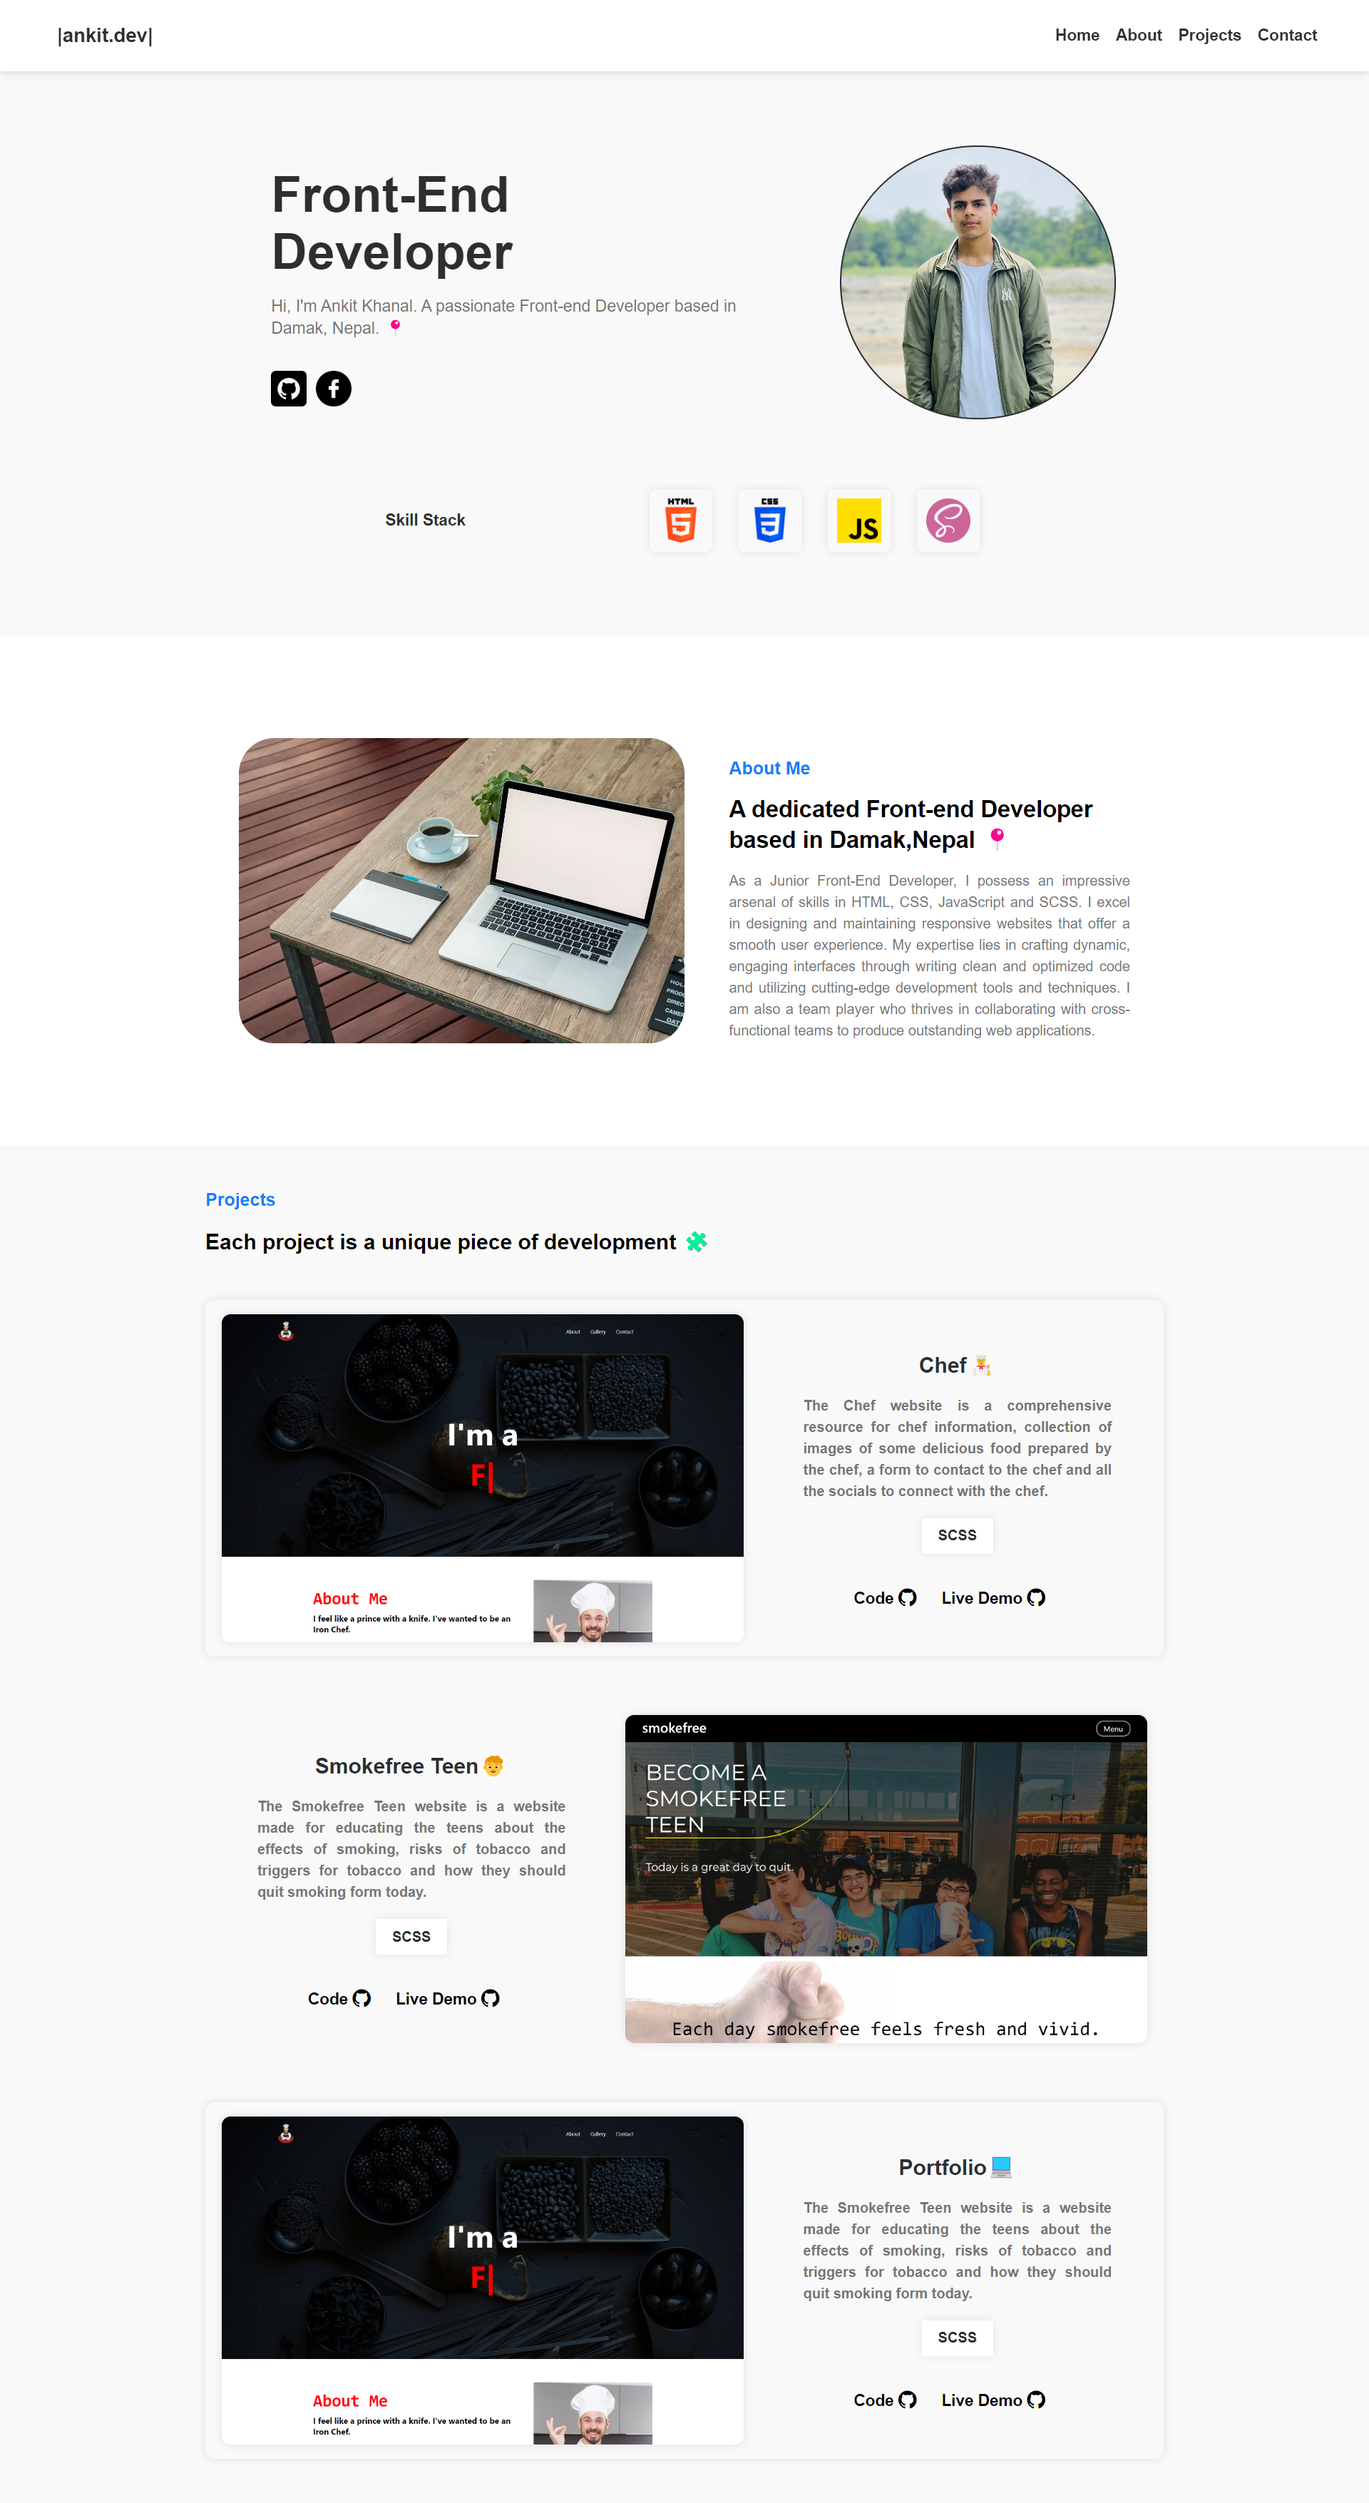
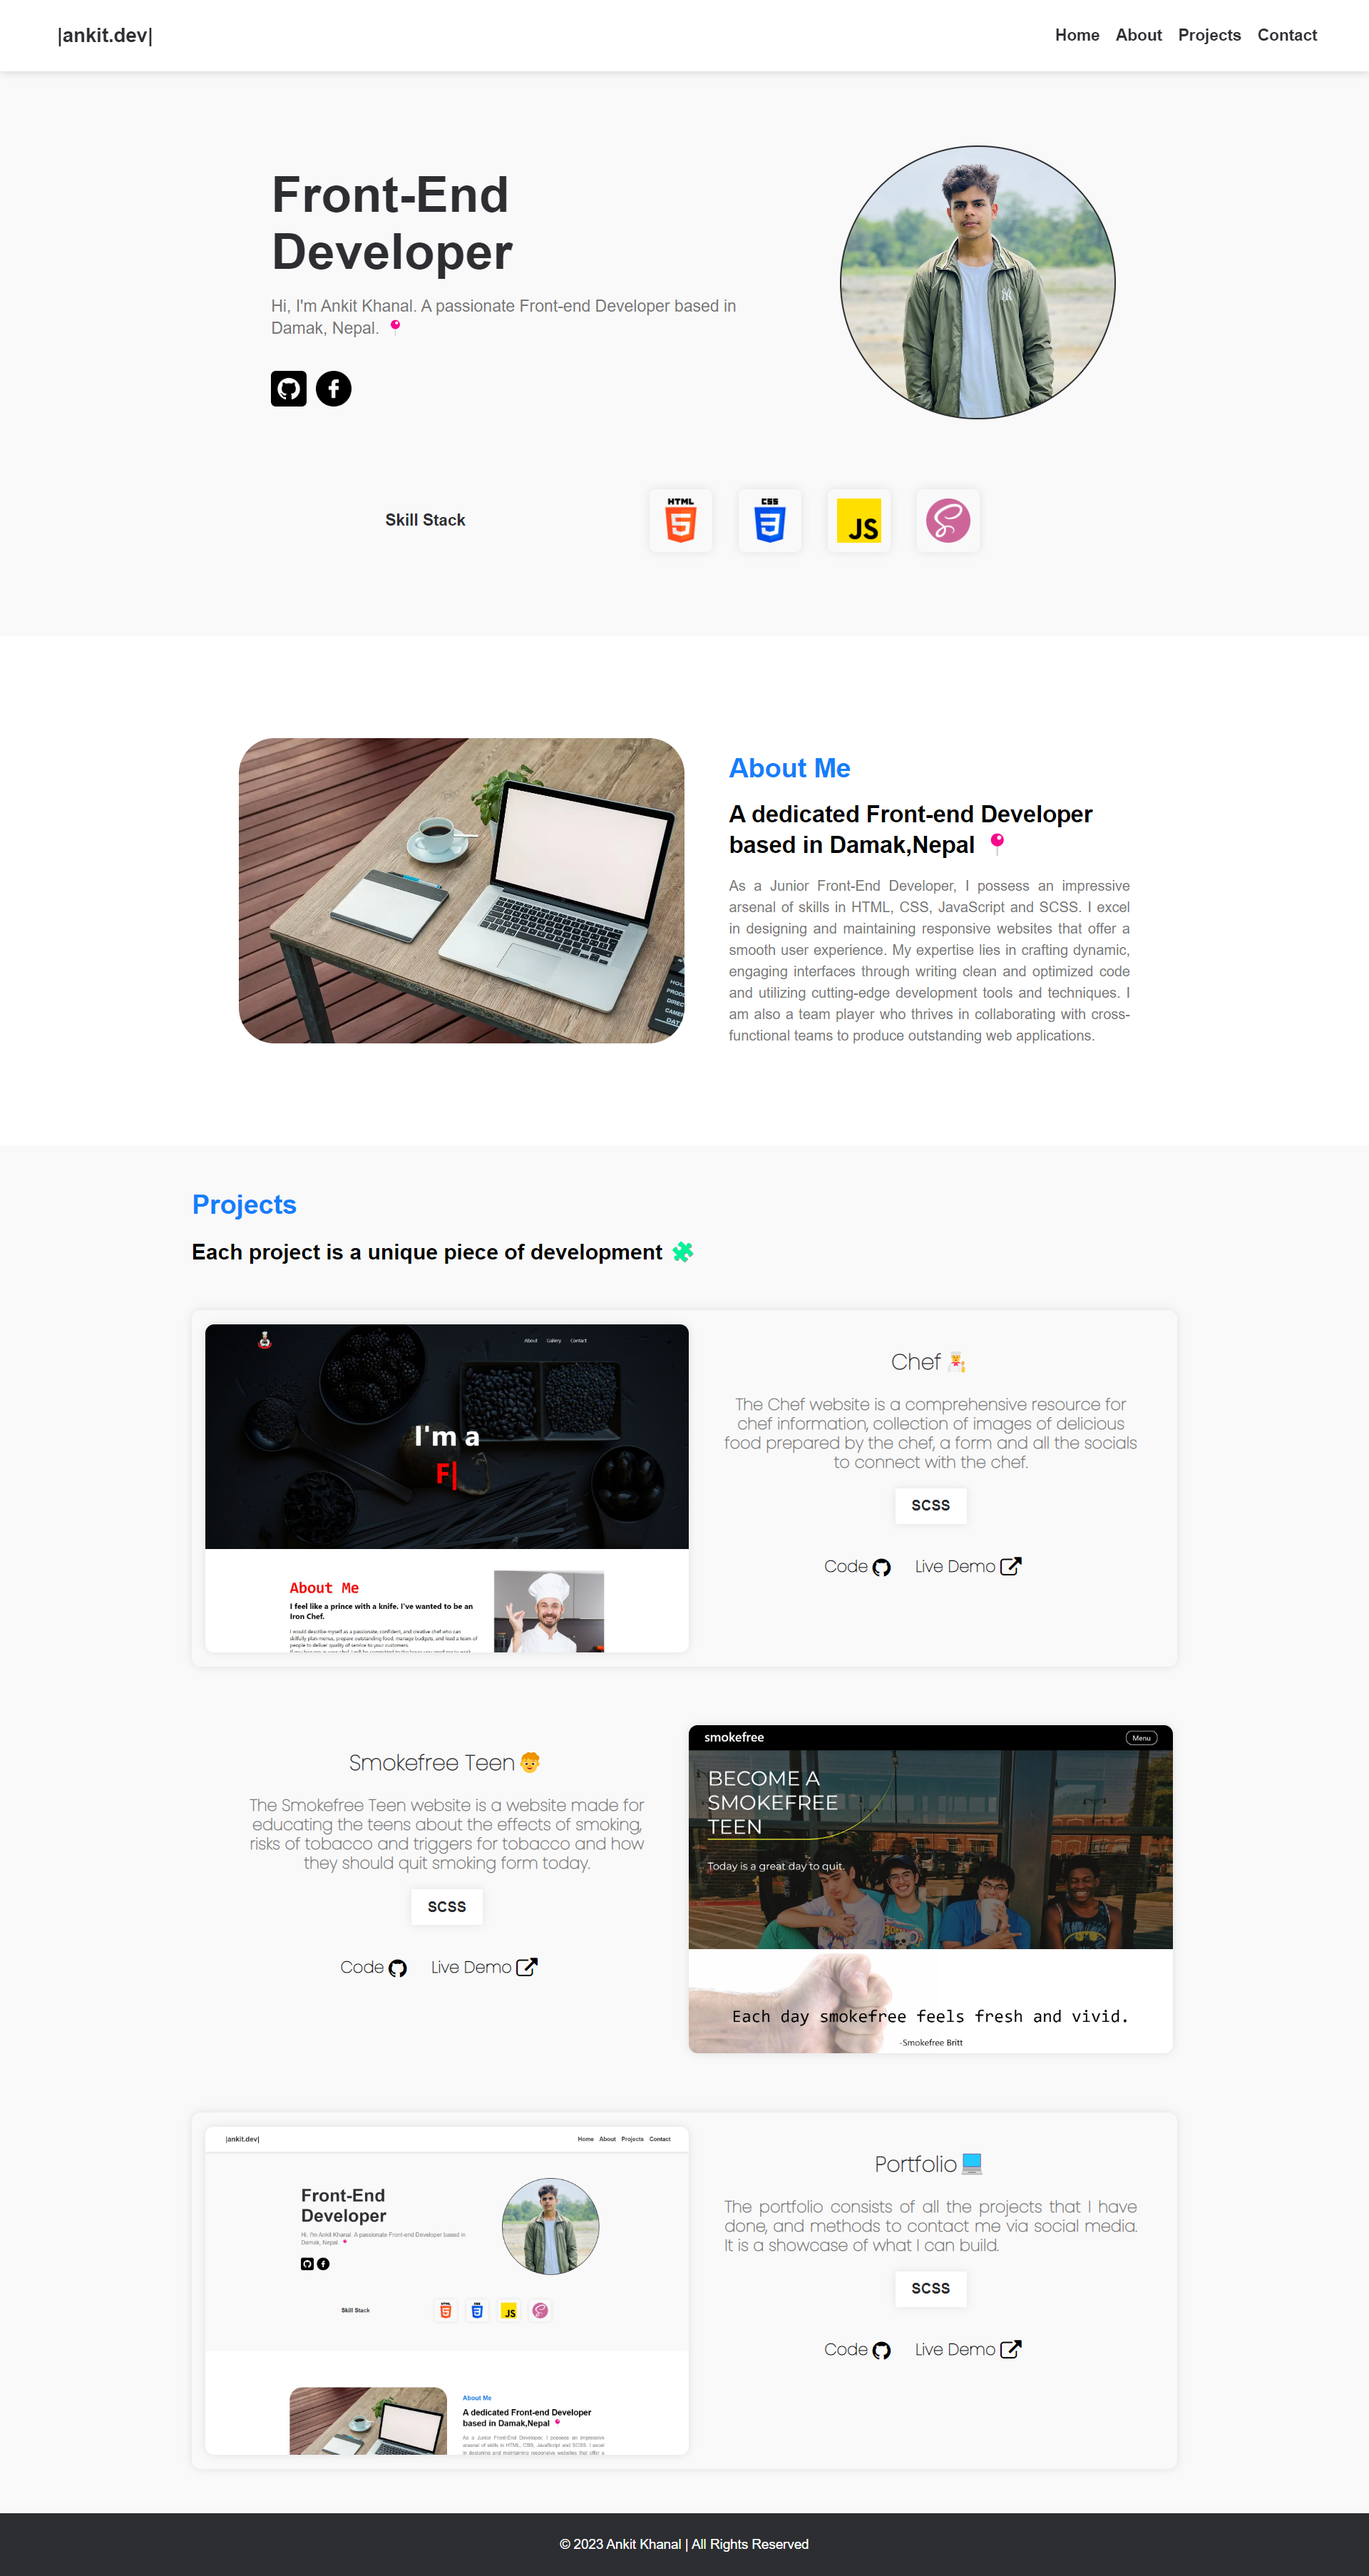
reuploaded

diff --git a/portfolio.scss b/portfolio.scss
@@ -386,7 +386,7 @@ body{
             .portfolio{
                 box-shadow:0 0 10px rgba(0,0,0,.1);
                 .image{
-                    background: url(./portfolio\ full\ page\ ss.jpg);
+                    background: url(./portfolio\ full\ page\ ss.png);
                     background-repeat: no-repeat;
                     background-size: cover;
                     background-position: top;
@@ -446,6 +446,13 @@ body{
                 }
             }
         }
+    }
+    footer{
+        @include center;
+        height:70px;
+        color:white;
+        background:#2D2E32;
+        font-size: 15px;
     }
 }
 
@@ -609,11 +616,11 @@ body{
                             justify-content: center;
                             align-items: center;
                             h1{
-                               font-size: 32px; 
+                               font-size: 40px; 
                                text-align: center;
                             }
                             p{
-                                font-size:16px;
+                                font-size:18px;
                                 text-align: justify;
                             }
                         }
@@ -623,8 +630,8 @@ body{
                         }
                     }
                     .hero-main-image{
-                        width:40%;
-                        height:200px;
+                        width:60%;
+                        height:250px;
                     }
                 }
                 .hero-skills{
@@ -700,64 +707,43 @@ body{
                     height:1000px;
                     .text{
                         width:100%;
-                    }
-                    .image{
-                        width:100%;
-                        height:100%;
-                        transition:none;
-                        background-size: contain;
-
-                    }
-                    p{
-                        margin:0px;
-                        text-align: justify;
-                    }
-                }
-                .smokefree{
-                    padding-top:0px;
-                    height:1000px;
-                    .text{
-                        height:30%;
-                        padding-top:0px;
-                    }
-                    .image{
-                        height:48.4%;
-                    }
-                }
-                .chef{
-                    height:1100px;
-                    .text{
-                        height:40%;
+                        padding:40px 0px 0px 0px;
                         p{
+                            margin:0px;
                             text-align: justify;
                         }
                     }
                     .image{
-                        height:58%;
+                        max-height:300px;
+                    }
+
+                }
+                .smokefree{
+                    padding-top:0px;
+                    height:670px;
+                    .text{
+                        height:60%;
+                        width:100%;
+
+                        padding-top:0px;
+                    }
+                }
+                .chef{
+                    height:730px;
+                    .text{
+                        height:60%;
+                        width:100%;
+
                     }
                 }
                 .portfolio{
-                    height:1100px;
+                    height:700px;
                     .text{
-                        height:50%;
+                        height:55%;
+                        padding:40px 0px 0px 0px;
                     }
-                    .image{
-                        background-size: cover;
-                        height:78%;
-                        transition:background-position 1s ease-in-out;
-                        &:hover{
-                            background-position: bottom;
-                        }
-                    }
-                }
-                p{
-                    margin-left:30px;
-                }
-                h1{
-                    margin-left: 30px;
                 }
             }
         }
-    
     }
 }

diff --git a/portfolio.css b/portfolio.css
@@ -386,7 +386,7 @@ body #projects .projects-container .portfolio {
   box-shadow: 0 0 10px rgba(0, 0, 0, 0.1);
 }
 body #projects .projects-container .portfolio .image {
-  background: url(./portfolio\ full\ page\ ss.jpg);
+  background: url(./portfolio\ full\ page\ ss.png);
   background-repeat: no-repeat;
   background-size: cover;
   background-position: top;
@@ -445,6 +445,15 @@ body #projects .projects-container .portfolio .text button {
   font-weight: bold;
   box-shadow: 0 0 10px rgba(0, 0, 0, 0.09);
   background: #fff;
+}
+body footer {
+  display: flex;
+  justify-content: center;
+  align-items: center;
+  height: 70px;
+  color: white;
+  background: #2D2E32;
+  font-size: 15px;
 }
 
 @media (max-width: 1111px) {
@@ -564,11 +573,11 @@ body #projects .projects-container .portfolio .text button {
     align-items: center;
   }
   body #home .hero .hero-main .hero-main-text .hero-main-text-text h1 {
-    font-size: 32px;
+    font-size: 40px;
     text-align: center;
   }
   body #home .hero .hero-main .hero-main-text .hero-main-text-text p {
-    font-size: 16px;
+    font-size: 18px;
     text-align: justify;
   }
   body #home .hero .hero-main .hero-main-text .hero-main-text-links {
@@ -576,8 +585,8 @@ body #projects .projects-container .portfolio .text button {
     align-items: center;
   }
   body #home .hero .hero-main .hero-main-image {
-    width: 40%;
-    height: 200px;
+    width: 60%;
+    height: 250px;
   }
   body #home .hero .hero-skills {
     justify-content: center;
@@ -643,58 +652,36 @@ body #projects .projects-container .portfolio .text button {
   }
   body #projects .projects-container .projects-projects .text {
     width: 100%;
+    padding: 40px 0px 0px 0px;
   }
-  body #projects .projects-container .projects-projects .image {
-    width: 100%;
-    height: 100%;
-    transition: none;
-    background-size: contain;
-  }
-  body #projects .projects-container .projects-projects p {
+  body #projects .projects-container .projects-projects .text p {
     margin: 0px;
     text-align: justify;
   }
+  body #projects .projects-container .projects-projects .image {
+    max-height: 300px;
+  }
   body #projects .projects-container .smokefree {
     padding-top: 0px;
-    height: 1000px;
+    height: 670px;
   }
   body #projects .projects-container .smokefree .text {
-    height: 30%;
+    height: 60%;
+    width: 100%;
     padding-top: 0px;
   }
-  body #projects .projects-container .smokefree .image {
-    height: 48.4%;
-  }
   body #projects .projects-container .chef {
-    height: 1100px;
+    height: 730px;
   }
   body #projects .projects-container .chef .text {
-    height: 40%;
-  }
-  body #projects .projects-container .chef .text p {
-    text-align: justify;
-  }
-  body #projects .projects-container .chef .image {
-    height: 58%;
+    height: 60%;
+    width: 100%;
   }
   body #projects .projects-container .portfolio {
-    height: 1100px;
+    height: 700px;
   }
   body #projects .projects-container .portfolio .text {
-    height: 50%;
-  }
-  body #projects .projects-container .portfolio .image {
-    background-size: cover;
-    height: 78%;
-    transition: background-position 1s ease-in-out;
-  }
-  body #projects .projects-container .portfolio .image:hover {
-    background-position: bottom;
-  }
-  body #projects .projects-container p {
-    margin-left: 30px;
-  }
-  body #projects .projects-container h1 {
-    margin-left: 30px;
+    height: 55%;
+    padding: 40px 0px 0px 0px;
   }
 }/*# sourceMappingURL=portfolio.css.map */

diff --git a/index.html b/index.html
@@ -112,11 +112,11 @@
                        with the chef.</p><br>
                       <button>SCSS</button><br><br><br>
                     <div class="project-links">
-                        <a href="#" style="margin-right:10px;">
+                        <a target="_blank" href="https://github.com/khanalankit69/Chef" style="margin-right:10px;">
                             <p>Code</p>
                             <i class="fa fa-github" style="font-size:24px"></i>
                             </a>&nbsp;&nbsp;&nbsp;&nbsp;
-                        <a href="#">
+                        <a target="_blank" href="https://khanalankit69.github.io/Chef/">
                             <p>Live Demo</p>
                             <i class="fa fa-external-link" style="font-size:24px"></i>
                         </a>&nbsp;&nbsp;&nbsp;&nbsp;    
@@ -133,11 +133,11 @@
                     </p><br>
                       <button>SCSS</button><br><br><br>
                     <div class="project-links">
-                        <a href="#" style="margin-right:10px;">
+                        <a target="_blank" href="https://github.com/khanalankit69/Smokefree" style="margin-right:10px;">
                             <p>Code</p>
                             <i class="fa fa-github" style="font-size:24px"></i>
                             </a>&nbsp;&nbsp;&nbsp;&nbsp;
-                        <a href="#">
+                        <a target="_blank" href="https://khanalankit69.github.io/Smokefree/">
                             <p>Live Demo</p>
                             <i class="fa fa-external-link" style="font-size:24px"></i>
                         </a>&nbsp;&nbsp;&nbsp;&nbsp;    
@@ -160,11 +160,11 @@
                     </p><br>
                       <button>SCSS</button><br><br><br>
                     <div class="project-links">
-                        <a href="#" style="margin-right:10px;">
+                        <a target="_blank" href="https://github.com/khanalankit69/Portfolio" style="margin-right:10px;">
                             <p>Code</p>
                             <i class="fa fa-github" style="font-size:24px"></i>
                             </a>&nbsp;&nbsp;&nbsp;&nbsp;
-                        <a href="#">
+                        <a target="_blank" href="https://khanalankit69.github.io/Portfolio/">
                             <p>Live Demo</p>
                             <i class="fa fa-external-link" style="font-size:24px"></i>
                         </a>&nbsp;&nbsp;&nbsp;&nbsp;    
@@ -174,6 +174,7 @@
             </div>
         </div>
     </section>
+    <footer>© 2023 Ankit Khanal | All Rights Reserved</footer>
     <script src="./portfolio.js">
 
     </script>
